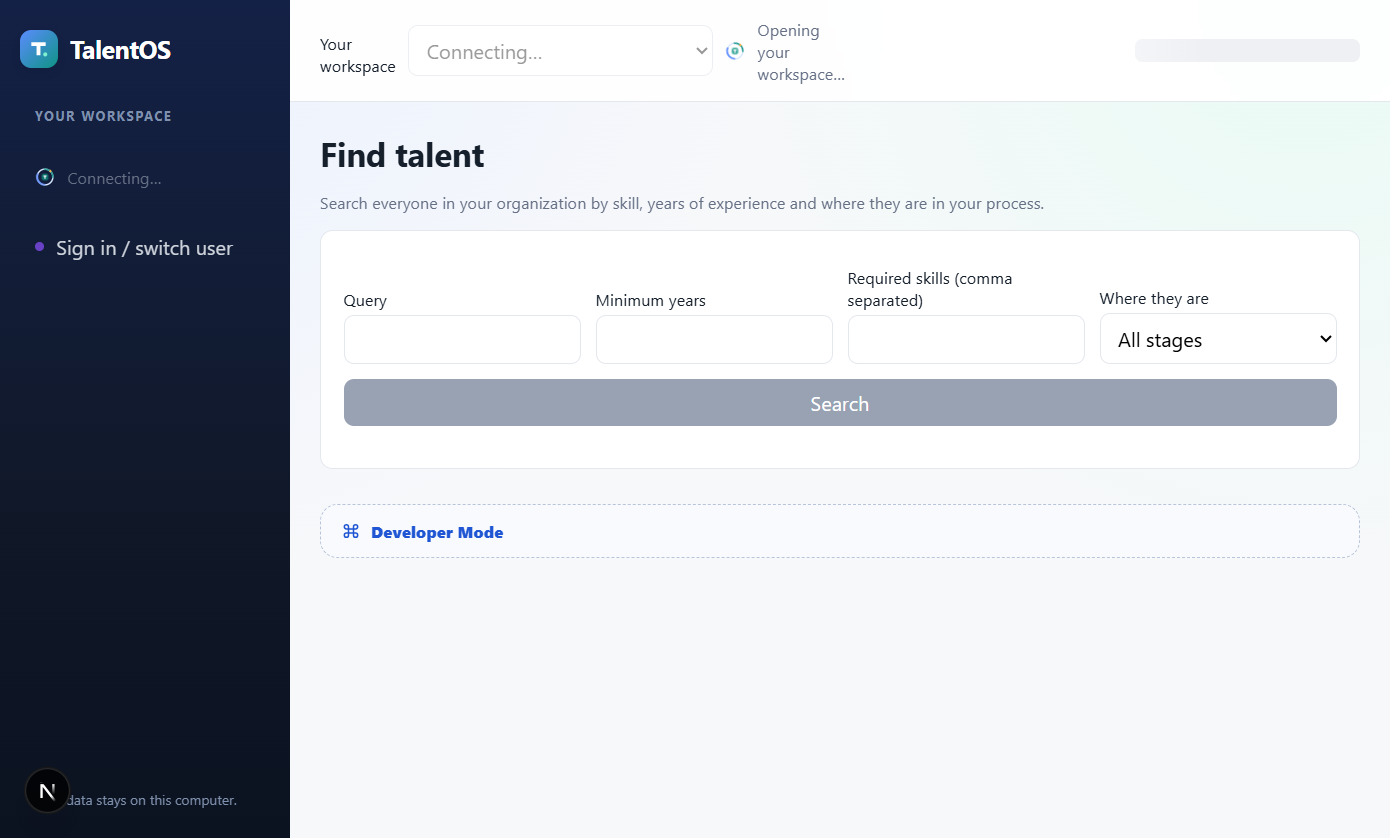
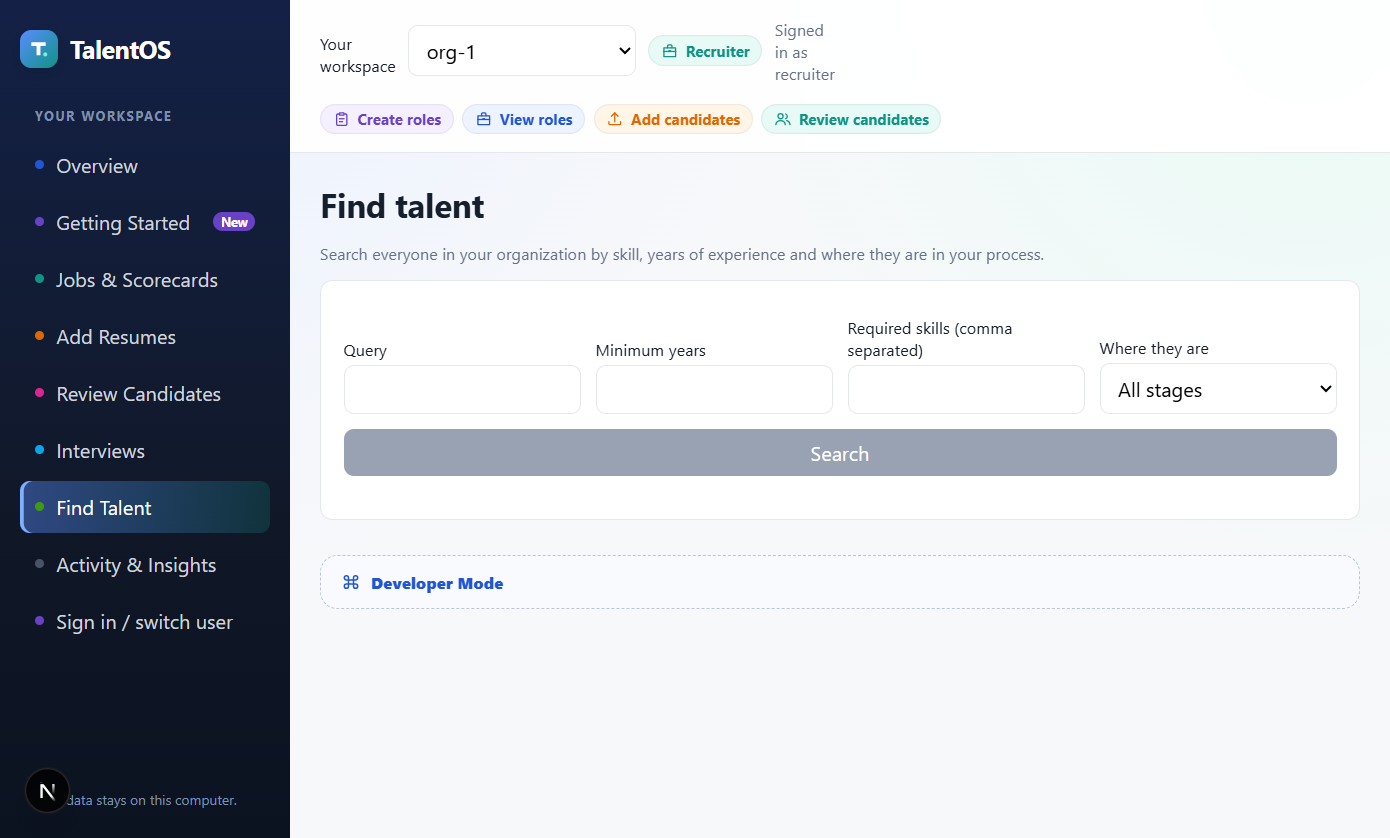
docs: refresh screenshots as clear loaded viewport captures
Retook all feature screenshots after waiting for sidebar and page loading states to finish. Replaced full-page dumps with viewport-sized captures so the sidebar and active content remain readable, then regenerated the Pillow collage and updated the README caption.

Verified with 98 passing pytest checks and clean TypeScript.

diff --git a/README.md b/README.md
@@ -22,6 +22,8 @@ Real browser captures from the seeded `org-1` demo workspace. No illustration wa
 
 The first screen explains the workspace in HR language, offers a guided tour and shows the live hiring snapshot: roles, people, interviews, offers and candidate stages.
 
+All captures are **viewport-sized loaded-state shots** — the browser waited until every loading label and skeleton disappeared. No full-page dumps, so the sidebar and active content stay clear.
+
 ---
 
 ## Stage 1 in one picture
